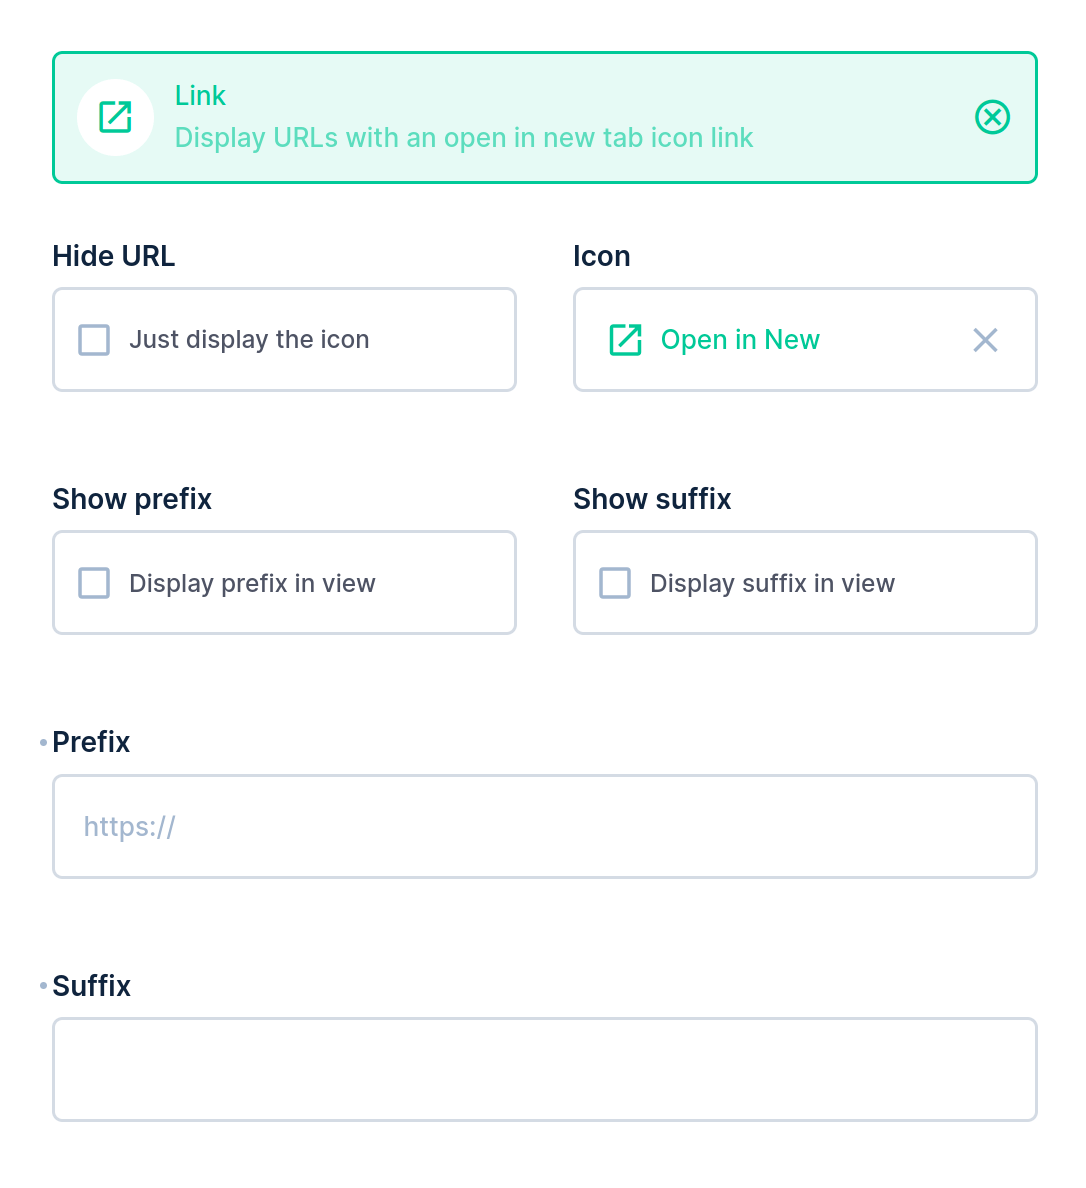
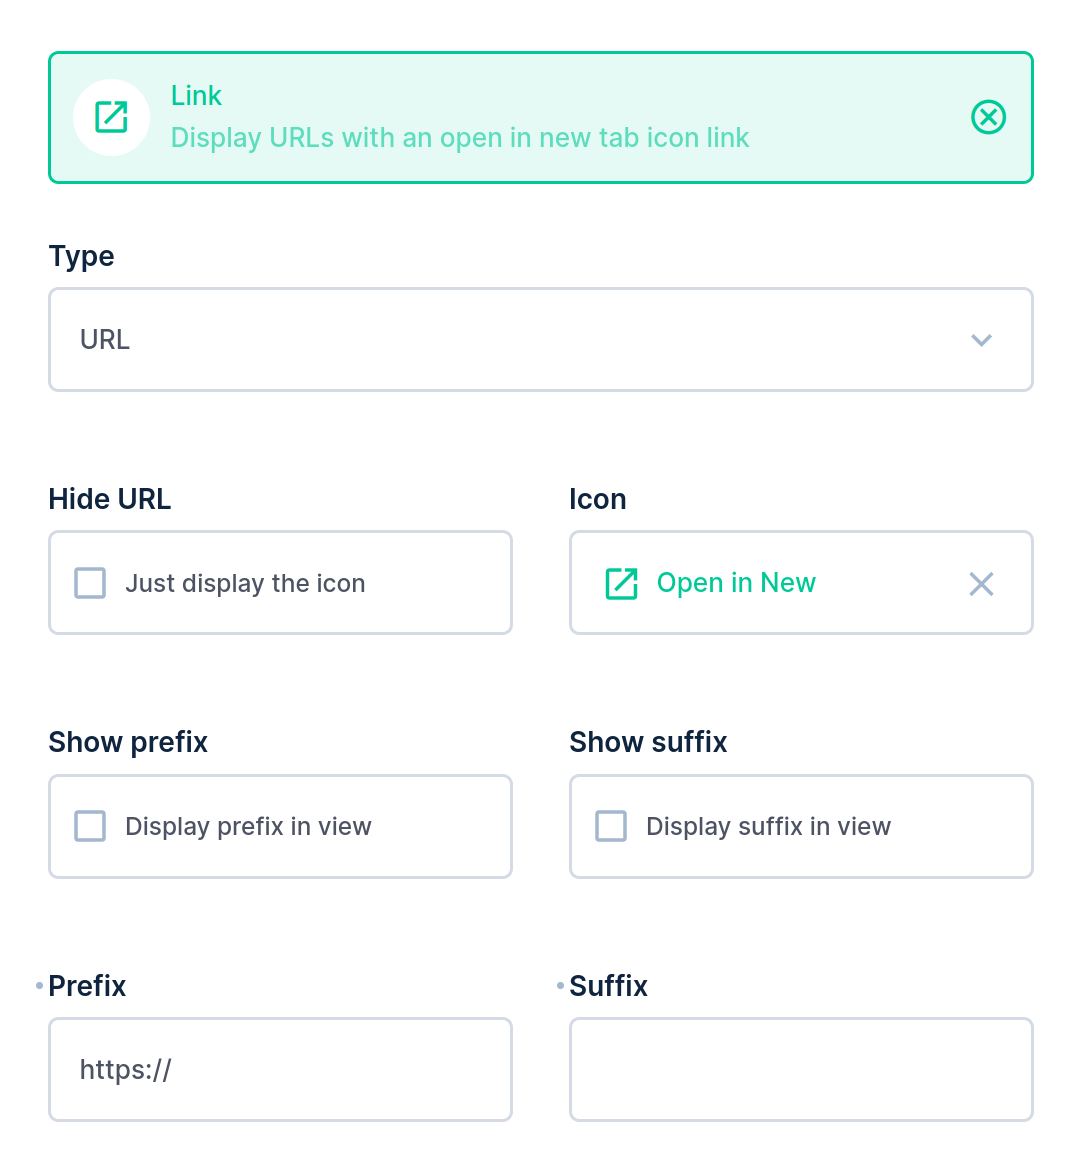
Add mailto and tel options

diff --git a/dist/index.js b/dist/index.js
@@ -1,1 +1,1 @@
-import{defineDisplay as e}from"@directus/extensions-sdk";import{defineComponent as t,resolveComponent as i,openBlock as n,createElementBlock as a,createElementVNode as l,withModifiers as o,createVNode as f,Fragment as s,createTextVNode as r,toDisplayString as u,createCommentVNode as p}from"vue";var d=t({props:{hideValue:{type:Boolean,default:!1},icon:{type:String,default:"open_in_new"},value:{type:String,default:null},showPrefix:{type:Boolean,default:!1},showSuffix:{type:Boolean,default:!1},prefix:{type:String,default:""},suffix:{type:String,default:""}},setup(e){const t=`${e.prefix||""}${e.value}${e.suffix||""}`,i=e.showPrefix?e.prefix:"",n=e.showSuffix?e.suffix:"";return{href:t,url:`${i}${e.value}${n}`}}});const c=["href"];var h=[],m=[];!function(e,t){if(e&&"undefined"!=typeof document){var i,n=!0===t.prepend?"prepend":"append",a=!0===t.singleTag,l="string"==typeof t.container?document.querySelector(t.container):document.getElementsByTagName("head")[0];if(a){var o=h.indexOf(l);-1===o&&(o=h.push(l)-1,m[o]={}),i=m[o]&&m[o][n]?m[o][n]:m[o][n]=f()}else i=f();65279===e.charCodeAt(0)&&(e=e.substring(1)),i.styleSheet?i.styleSheet.cssText+=e:i.appendChild(document.createTextNode(e))}function f(){var e=document.createElement("style");if(e.setAttribute("type","text/css"),t.attributes)for(var i=Object.keys(t.attributes),a=0;a<i.length;a++)e.setAttribute(i[a],t.attributes[i[a]]);var o="prepend"===n?"afterbegin":"beforeend";return l.insertAdjacentElement(o,e),e}}("\n.extension-display-link__icon:hover {\n  --v-icon-color: var(--primary);\n}\n",{}),d.render=function(e,t,d,h,m,y){const v=i("v-icon");return n(),a("div",null,[l("a",{href:e.href,target:"_blank",onClick:t[0]||(t[0]=o((()=>{}),["stop"]))},[f(v,{class:"extension-display-link__icon",name:e.icon,left:""},null,8,["name"])],8,c),e.hideValue?p("v-if",!0):(n(),a(s,{key:0},[r(u(e.url),1)],2112))])},d.__file="src/display.vue";var y=e({id:"extension-display-link",name:"Link",icon:"open_in_new",description:"Display URLs with an open in new tab icon link",component:d,options:[{field:"hideValue",name:"Hide URL",type:"boolean",meta:{interface:"boolean",width:"half",options:{label:"Just display the icon"}},schema:{default_value:!1}},{field:"icon",name:"$t:displays.formatted-value.icon",type:"string",meta:{width:"half",interface:"select-icon"},schema:{default_value:"open_in_new"}},{field:"showPrefix",name:"Show prefix",type:"boolean",meta:{interface:"boolean",width:"half",options:{label:"Display prefix in view"}},schema:{default_value:!1}},{field:"showSuffix",name:"Show suffix",type:"boolean",meta:{interface:"boolean",width:"half",options:{label:"Display suffix in view"}},schema:{default_value:!1}},{field:"prefix",name:"$t:displays.formatted-value.prefix",type:"string",meta:{width:"full",interface:"input",options:{label:"$t:displays.formatted-value.prefix_label",placeholder:"https://",trim:!0}},schema:{default_value:""}},{field:"suffix",name:"$t:displays.formatted-value.suffix",type:"string",meta:{width:"full",interface:"input",options:{label:"$t:displays.formatted-value.suffix_label",trim:!0}},schema:{default_value:""}}],types:["string","text"]});export{y as default};
+import{defineDisplay as e}from"@directus/extensions-sdk";import{defineComponent as t,resolveComponent as i,openBlock as a,createElementBlock as n,createElementVNode as l,withModifiers as o,createVNode as r,Fragment as f,createTextVNode as s,toDisplayString as u,createCommentVNode as d}from"vue";const p={url:"",email:"mailto:",tel:"tel:"};var c=t({props:{kind:{type:String,default:"url"},hideValue:{type:Boolean,default:!1},icon:{type:String,default:"open_in_new"},value:{type:String,default:null},showPrefix:{type:Boolean,default:!1},showSuffix:{type:Boolean,default:!1},prefix:{type:String,default:""},suffix:{type:String,default:""}},setup(e){const t=`${e.prefix||""}${e.value}${e.suffix||""}`,i=e.showPrefix?e.prefix:"",a=e.showSuffix?e.suffix:"";return{href:`${p[e.kind]}${t}`,url:`${i}${e.value}${a}`}}});const m=["href"];var h=[],y=[];!function(e,t){if(e&&"undefined"!=typeof document){var i,a=!0===t.prepend?"prepend":"append",n=!0===t.singleTag,l="string"==typeof t.container?document.querySelector(t.container):document.getElementsByTagName("head")[0];if(n){var o=h.indexOf(l);-1===o&&(o=h.push(l)-1,y[o]={}),i=y[o]&&y[o][a]?y[o][a]:y[o][a]=r()}else i=r();65279===e.charCodeAt(0)&&(e=e.substring(1)),i.styleSheet?i.styleSheet.cssText+=e:i.appendChild(document.createTextNode(e))}function r(){var e=document.createElement("style");if(e.setAttribute("type","text/css"),t.attributes)for(var i=Object.keys(t.attributes),n=0;n<i.length;n++)e.setAttribute(i[n],t.attributes[i[n]]);var o="prepend"===a?"afterbegin":"beforeend";return l.insertAdjacentElement(o,e),e}}("\n.extension-display-link__icon:hover {\n  --v-icon-color: var(--primary);\n}\n",{}),c.render=function(e,t,p,c,h,y){const v=i("v-icon");return a(),n("div",null,[l("a",{href:e.href,target:"_blank",onClick:t[0]||(t[0]=o((()=>{}),["stop"]))},[r(v,{class:"extension-display-link__icon",name:e.icon,left:""},null,8,["name"])],8,m),e.hideValue?d("v-if",!0):(a(),n(f,{key:0},[s(u(e.url),1)],2112))])},c.__file="src/display.vue";var v=e({id:"extension-display-link",name:"Link",icon:"open_in_new",description:"Display URLs with an open in new tab icon link",component:c,options:[{field:"kind",name:"Type",meta:{width:"full",interface:"select-dropdown",options:{choices:[{text:"URL",value:"url"},{text:"Telephone",value:"tel"},{text:"Email",value:"email"}]}},schema:{default_value:"url"}},{field:"hideValue",name:"Hide URL",type:"boolean",meta:{interface:"boolean",width:"half",options:{label:"Just display the icon"}},schema:{default_value:!1}},{field:"icon",name:"$t:displays.formatted-value.icon",type:"string",meta:{width:"half",interface:"select-icon"},schema:{default_value:"open_in_new"}},{field:"showPrefix",name:"Show prefix",type:"boolean",meta:{interface:"boolean",width:"half",options:{label:"Display prefix in view"}},schema:{default_value:!1}},{field:"showSuffix",name:"Show suffix",type:"boolean",meta:{interface:"boolean",width:"half",options:{label:"Display suffix in view"}},schema:{default_value:!1}},{field:"prefix",name:"$t:displays.formatted-value.prefix",type:"string",meta:{width:"half",interface:"input",options:{label:"$t:displays.formatted-value.prefix_label",placeholder:"https://",trim:!0}},schema:{default_value:""}},{field:"suffix",name:"$t:displays.formatted-value.suffix",type:"string",meta:{width:"half",interface:"input",options:{label:"$t:displays.formatted-value.suffix_label",trim:!0}},schema:{default_value:""}}],types:["string","text"]});export{v as default};

diff --git a/src/index.ts b/src/index.ts
@@ -9,6 +9,33 @@ export default defineDisplay({
   component: DisplayComponent,
   options: [
     {
+      field: "kind",
+      name: "Type",
+      meta: {
+        width: "full",
+        interface: "select-dropdown",
+        options: {
+          choices: [
+            {
+              text: "URL",
+              value: "url",
+            },
+            {
+              text: "Telephone",
+              value: "tel",
+            },
+            {
+              text: "Email",
+              value: "email",
+            },
+          ],
+        },
+      },
+      schema: {
+        default_value: "url",
+      },
+    },
+    {
       field: "hideValue",
       name: "Hide URL",
       type: "boolean",
@@ -70,7 +97,7 @@ export default defineDisplay({
       name: "$t:displays.formatted-value.prefix",
       type: "string",
       meta: {
-        width: "full",
+        width: "half",
         interface: "input",
         options: {
           label: "$t:displays.formatted-value.prefix_label",
@@ -87,7 +114,7 @@ export default defineDisplay({
       name: "$t:displays.formatted-value.suffix",
       type: "string",
       meta: {
-        width: "full",
+        width: "half",
         interface: "input",
         options: {
           label: "$t:displays.formatted-value.suffix_label",

diff --git a/src/display.vue b/src/display.vue
@@ -10,8 +10,18 @@
 <script lang="ts">
 import {defineComponent} from 'vue';
 
+const kinds = {
+  url: '',
+  email: 'mailto:',
+  tel: 'tel:'
+}
+
 export default defineComponent({
   props: {
+    kind: {
+      type: String,
+      default: 'url'
+    },
     hideValue: {
       type: Boolean,
       default: false
@@ -42,9 +52,11 @@ export default defineComponent({
     },
   },
   setup(props) {
-    const href = `${props.prefix || ''}${props.value}${props.suffix || ''}`
+    const url = `${props.prefix || ''}${props.value}${props.suffix || ''}`
     const prefix = props.showPrefix ? props.prefix : ''
     const suffix = props.showSuffix ? props.suffix : ''
+    const kind = kinds[props.kind]
+    const href = `${kind}${url}`
     return {
       href,
       url: `${prefix}${props.value}${suffix}`
